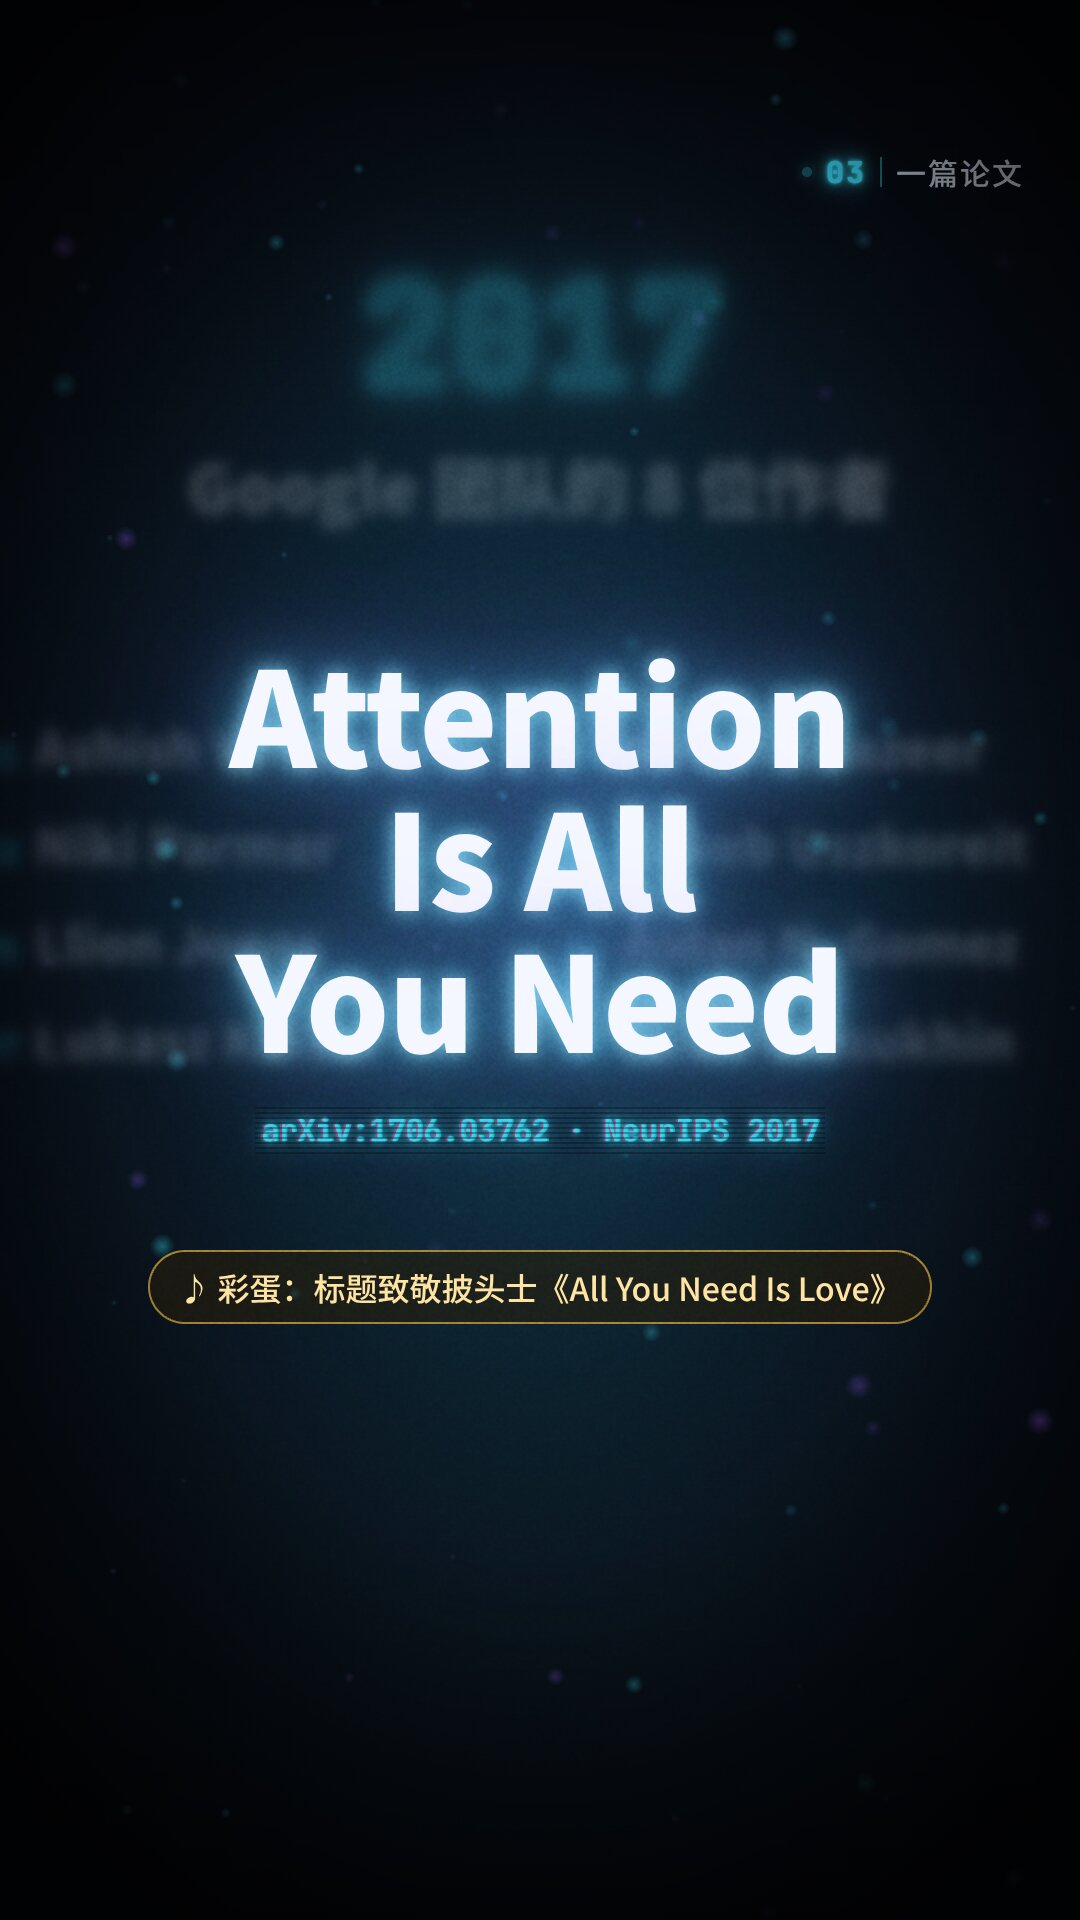
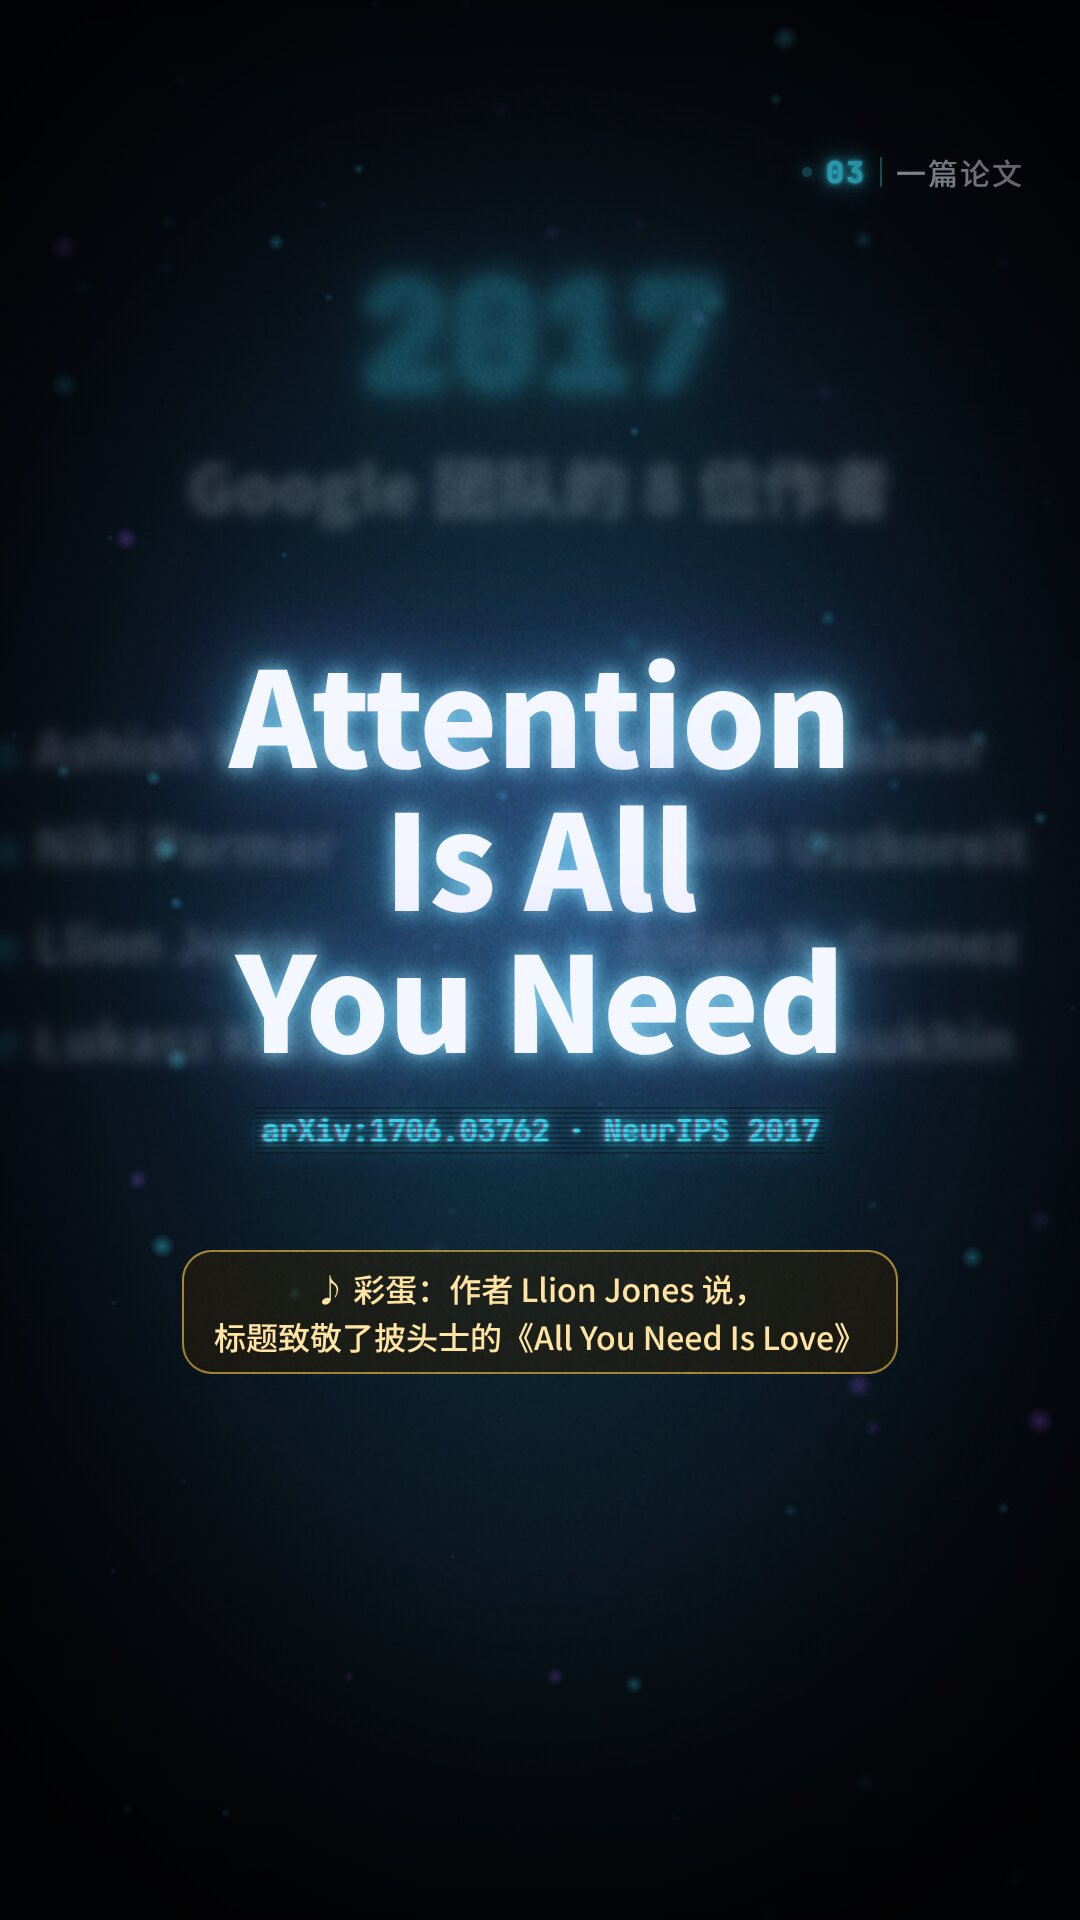
Fix library card ghosting; attribute Beatles note to Llion Jones
- The pulled-out 'cat' spine no longer lingers behind the opened book,
  and the book card is opaque so other spines don't bleed through
- Easter egg now cites co-author Llion Jones, who said the title nods to
  the Beatles' 'All You Need Is Love' (Financial Times, 2023)

Claude-Session: https://claude.ai/code/session_012hCwCp7axLcYpAQvEDUCDT

Changed region(s): [[0.1222, 0.6562, 0.8556, 0.7188]]

diff --git a/src/scenes/05-Formula.tsx b/src/scenes/05-Formula.tsx
@@ -72,7 +72,7 @@ const Library: React.FC<{ t: number }> = ({ t }) => {
                 boxShadow: `0 0 ${10 + lit * 50}px rgba(${hexToRgb(b.color)},${0.3 + lit * 0.7})`,
                 transform: `scaleY(${appear})`,
                 transformOrigin: "bottom",
-                opacity: isCat ? 1 - open * 0.7 : 1 - 0.5 * prog(t, 2.25, 0.3),
+                opacity: isCat ? 1 - clamp(open * 1.6) : 1 - 0.75 * prog(t, 2.25, 0.3),
                 display: "flex",
                 alignItems: "center",
                 justifyContent: "center",
@@ -150,9 +150,10 @@ const Library: React.FC<{ t: number }> = ({ t }) => {
             height: 330,
             borderRadius: 18,
             border: `3px solid ${C.gold}`,
-            background: "linear-gradient(180deg, rgba(60,45,10,0.92), rgba(30,22,6,0.92))",
+            background: "linear-gradient(180deg, rgb(58,44,12), rgb(30,22,6))",
             boxShadow: `0 0 60px rgba(255,201,77,0.55)`,
             transform: `scale(${open})`,
+            transformOrigin: `${spineX(0) + SPINE_W / 2 - 170}px 0px`,
             opacity: clamp(open),
             padding: "26px 34px",
             fontFamily: SANS,

diff --git a/src/scenes/03-Paper.tsx b/src/scenes/03-Paper.tsx
@@ -331,13 +331,16 @@ const Title: React.FC<{ t: number }> = ({ t }) => {
             fontWeight: 500,
             fontSize: 32,
             color: "#FFE3A3",
-            padding: "12px 28px",
-            borderRadius: 40,
+            padding: "12px 30px",
+            borderRadius: 30,
+            lineHeight: 1.5,
             border: "2px solid rgba(255,201,77,0.6)",
             background: "rgba(40,30,10,0.55)",
           }}
         >
-          ♪ 彩蛋：标题致敬披头士《All You Need Is Love》
+          ♪ 彩蛋：作者 Llion Jones 说，
+          <br />
+          标题致敬了披头士的《All You Need Is Love》
         </span>
       </div>
     </AbsoluteFill>
